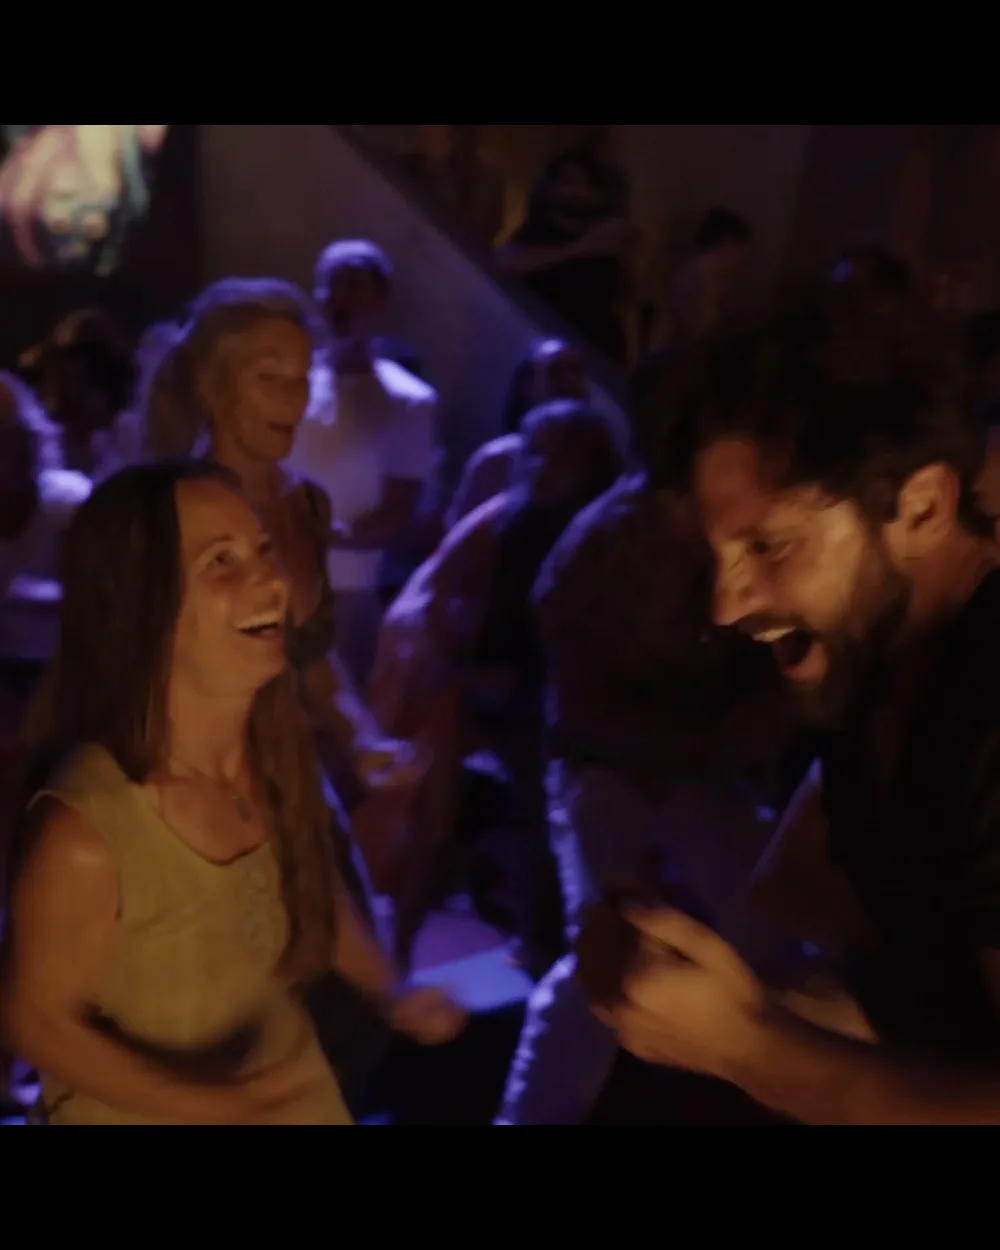
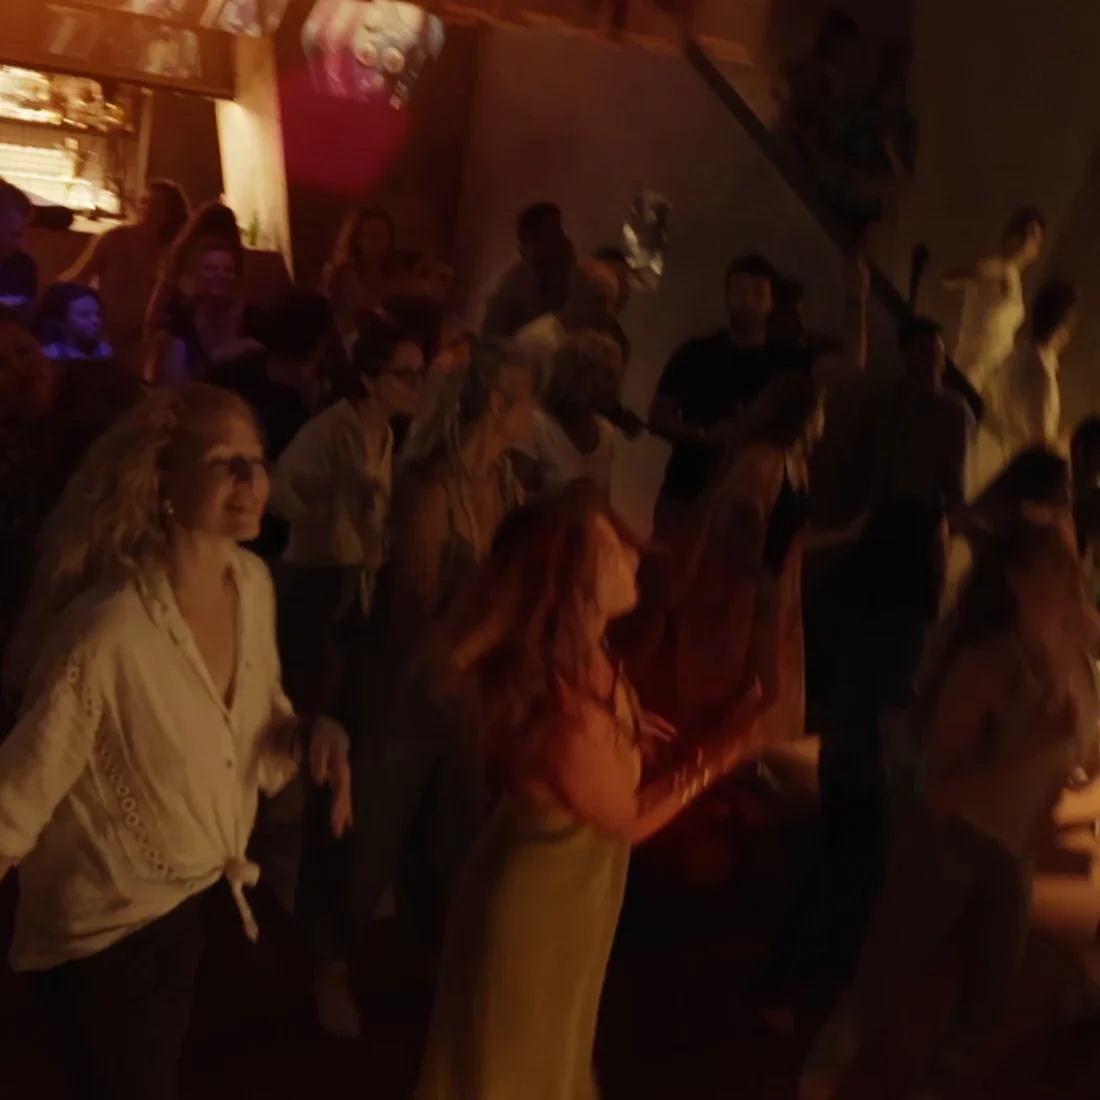
Fix letterboxed pillar images; dark consent and phone bars
The reel stills are a 1080x1080 frame centred in a 1080x1920 canvas with
420px of black top and bottom. The previous crop took a 1350px band and
so kept the bars. Cards are now square and take exactly the content
rectangle, so nothing is cropped and no black survives.

Swapped to the three shots picked off the contact sheet: the stage with
the crowd, the full floor with arms raised, and the room dancing.

The consent banner and the phone CTA bar come from the shared
stylesheets with hardcoded light surfaces but text coloured by --ink.
This page flips --ink to near-white, so both were white on white. Both
now get a dark surface here rather than changing the shared files, which
the main light-themed site depends on.

diff --git a/css/rave.css b/css/rave.css
@@ -155,7 +155,7 @@ body.rave .hoj-mark { width: 120px; height: auto; }
 .gears { list-style: none; margin: 0; padding: 0; display: grid; grid-template-columns: repeat(3, 1fr); gap: 28px; }
 /* Each pillar now opens with a photo, then the purple rule under it. */
 .gears > li { border-top: 0; padding-top: 0; }
-.gears .step-image { aspect-ratio: .82; border-radius: 16px; margin-bottom: 20px; background: #1b1030; }
+.gears .step-image { aspect-ratio: 1; border-radius: 16px; margin-bottom: 20px; background: #1b1030; }
 .gears > li:hover .step-image img { transform: scale(1.03); }
 .gear-body { border-top: 2px solid var(--purple); padding-top: 18px; }
 .gear-no { font-size: .72rem; font-weight: 700; letter-spacing: .18em; color: var(--purple); }
@@ -218,6 +218,29 @@ body.rave .answer { color: var(--muted); }
 .rave-close h2 { font-size: clamp(3.4rem, 11vw, 7rem); line-height: .95; margin: 18px 0 32px; }
 .rave-close h2 span { color: var(--purple); }
 .rave-fine { font-size: .78rem; color: var(--muted); margin-top: 16px; }
+
+/* ---------- the two shared bars ----------
+   style.css and site.css give the consent banner and the phone CTA bar a
+   hardcoded light surface but colour their text with --ink. This page flips
+   --ink to near-white, which left white text on white. Give both a dark
+   surface here rather than unpicking the shared files. */
+body.rave .consent {
+  background: #17102af2; border-color: var(--line); color: var(--ink);
+  box-shadow: 0 16px 44px rgba(0,0,0,.5);
+}
+body.rave .consent p { color: var(--ink); }
+body.rave .consent a { color: var(--purple); text-decoration: underline; }
+body.rave .consent-btn { background: #241741; color: var(--ink); border-color: #3a2b56; }
+body.rave .consent-btn:hover { background: #2f1f55; border-color: var(--purple); }
+
+body.rave .mobile-cta {
+  background: #140d24f2; border-top-color: var(--line);
+  box-shadow: 0 -5px 25px rgba(0,0,0,.45);
+}
+body.rave .mobile-cta > span { color: var(--muted); }
+body.rave .mobile-cta strong { color: var(--ink); }
+body.rave .mobile-cta .button { background: var(--purple); color: #140d24; border-color: var(--purple); }
+body.rave .mobile-cta .button:hover { background: #c1a0ff; color: #140d24; }
 
 /* ---------- footer ---------- */
 body.rave .footer-top img { filter: invert(1) brightness(1.6); }

diff --git a/index.html b/index.html
@@ -118,7 +118,7 @@
     <ol class="gears">
       <li>
         <div class="step-image">
-          <img src="/img/pillar-music.webp" alt="A DJ playing a set at the decks with dancers behind him under warm stage light" width="1000" height="1250" loading="lazy">
+          <img src="/img/pillar-music.webp" alt="Musicians playing on stage as a crowd dances in front of them under warm light" width="1100" height="1100" loading="lazy">
         </div>
         <div class="gear-body">
           <span class="gear-no">01</span>
@@ -128,7 +128,7 @@
       </li>
       <li>
         <div class="step-image">
-          <img src="/img/pillar-floor.webp" alt="A man dancing with his arm raised in the middle of a busy dancefloor" width="1000" height="1250" loading="lazy">
+          <img src="/img/pillar-floor.webp" alt="A large crowd with their arms raised on the dancefloor under purple light" width="1100" height="1100" loading="lazy">
         </div>
         <div class="gear-body">
           <span class="gear-no">02</span>
@@ -138,7 +138,7 @@
       </li>
       <li>
         <div class="step-image">
-          <img src="/img/pillar-feeling.webp" alt="Two people laughing as they dance close together in a crowd" width="1000" height="1250" loading="lazy">
+          <img src="/img/pillar-feeling.webp" alt="People dancing together in a warmly lit room" width="1100" height="1100" loading="lazy">
         </div>
         <div class="gear-body">
           <span class="gear-no">03</span>
